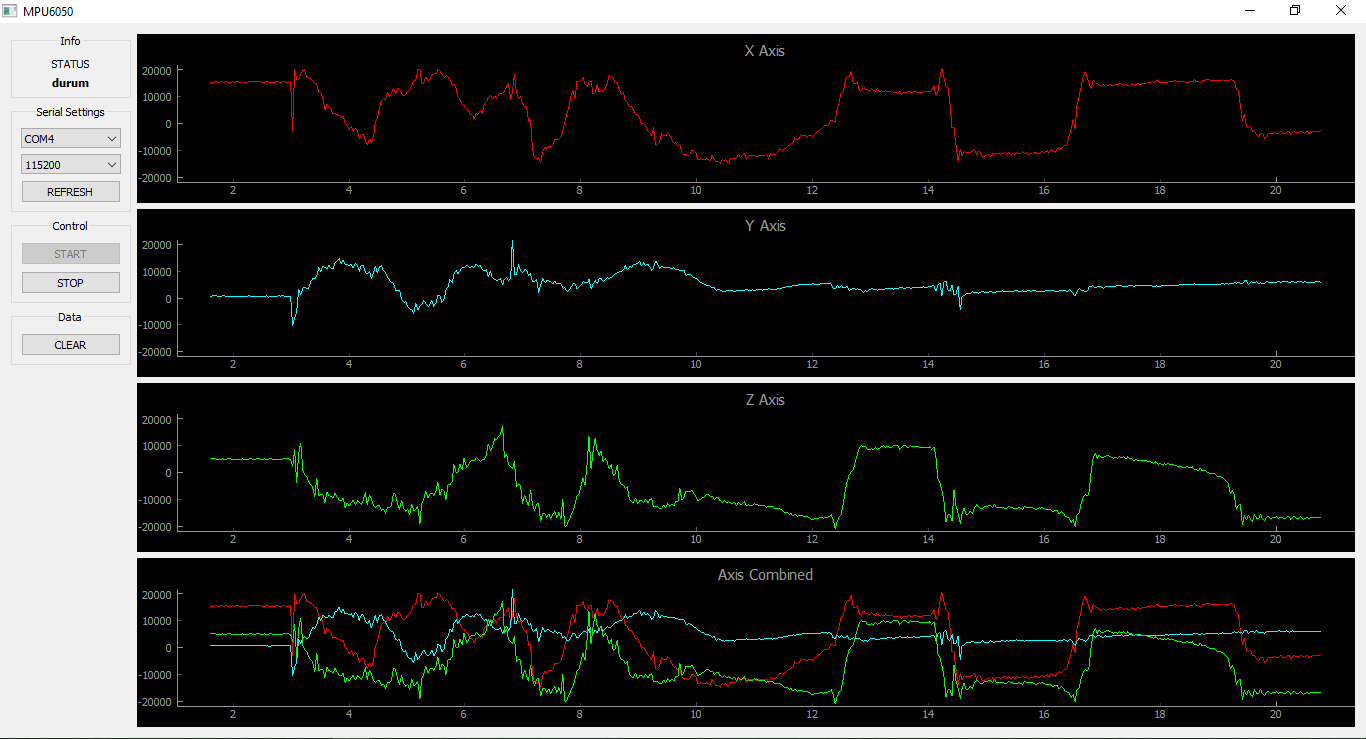
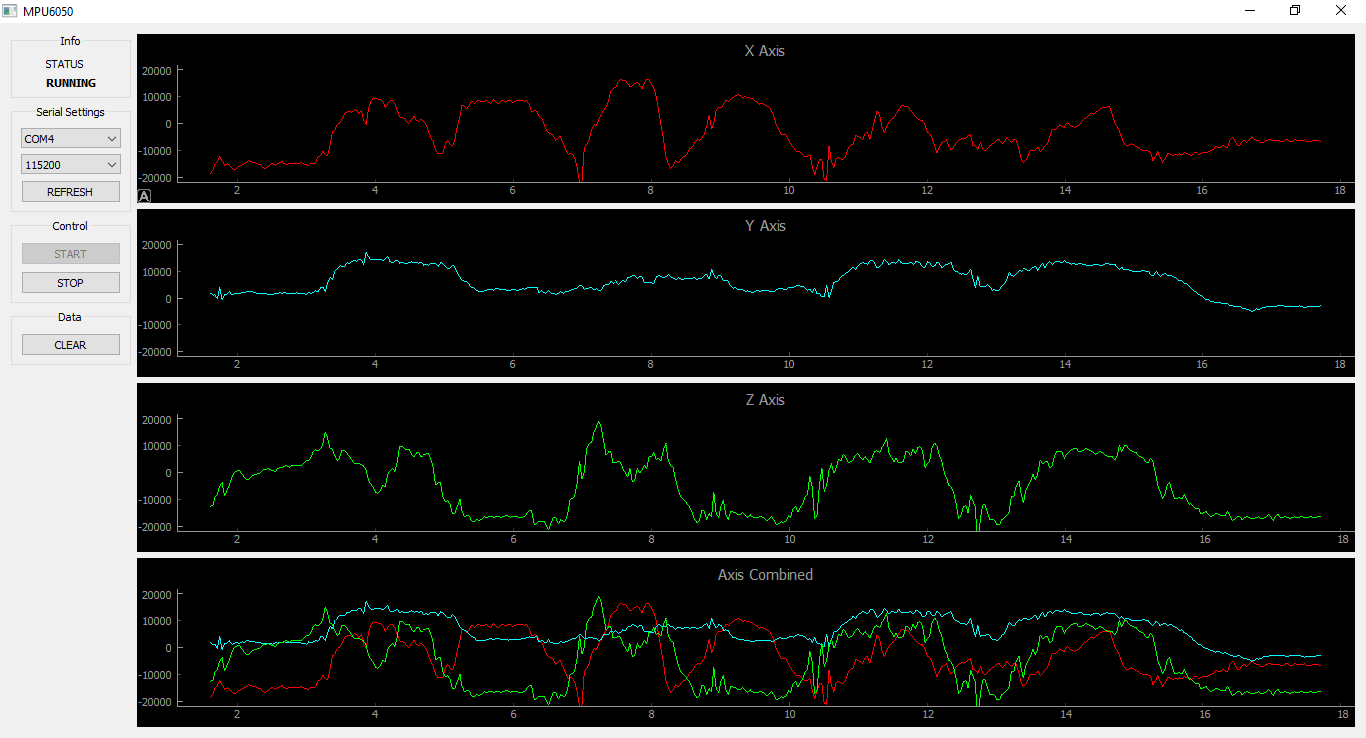
this project is finish
everything works properly

diff --git a/main.py b/main.py
@@ -29,7 +29,7 @@ class GuiPencere(QWidget):
 		self.GBInfo.setMaximumWidth(min_width)
 		self.GBInfo.setMinimumWidth(min_width)
 		self.InfoLabelText=QLabel("STATUS")
-		self.InfoLabel=QLabel("<b>durum</b>")
+		self.InfoLabel=QLabel("<b>IDLE</b>")
 		self.InfoLabel.setAlignment(Qt.AlignCenter)
 		self.GBInfoLayout.addWidget(self.InfoLabelText)
 		self.GBInfoLayout.addWidget(self.InfoLabel)
@@ -143,9 +143,11 @@ class GuiPencere(QWidget):
 		self.SerialConnectButon.setDisabled(True)
 		self.SerialDisconnectButon.setEnabled(True)
 		self.ClearButon.setEnabled(True)
+		self.InfoLabel.setText("<b>RUNNING</b>")
 		self.timer=QTimer()
 		self.timer.timeout.connect(self.cycle)
 		self.timer.start(33)
+
 
 	def data_clear(self):
 		port.clear_array()
@@ -163,6 +165,7 @@ def close_serial_port():
 	pencere.SerialConnectButon.setEnabled(True)
 	pencere.SerialDisconnectButon.setEnabled(False)
 	pencere.ClearButon.setEnabled(False)
+	pencere.InfoLabel.setText("<b>STOPPED</b>")
 	pencere.timer.stop()
 
 
